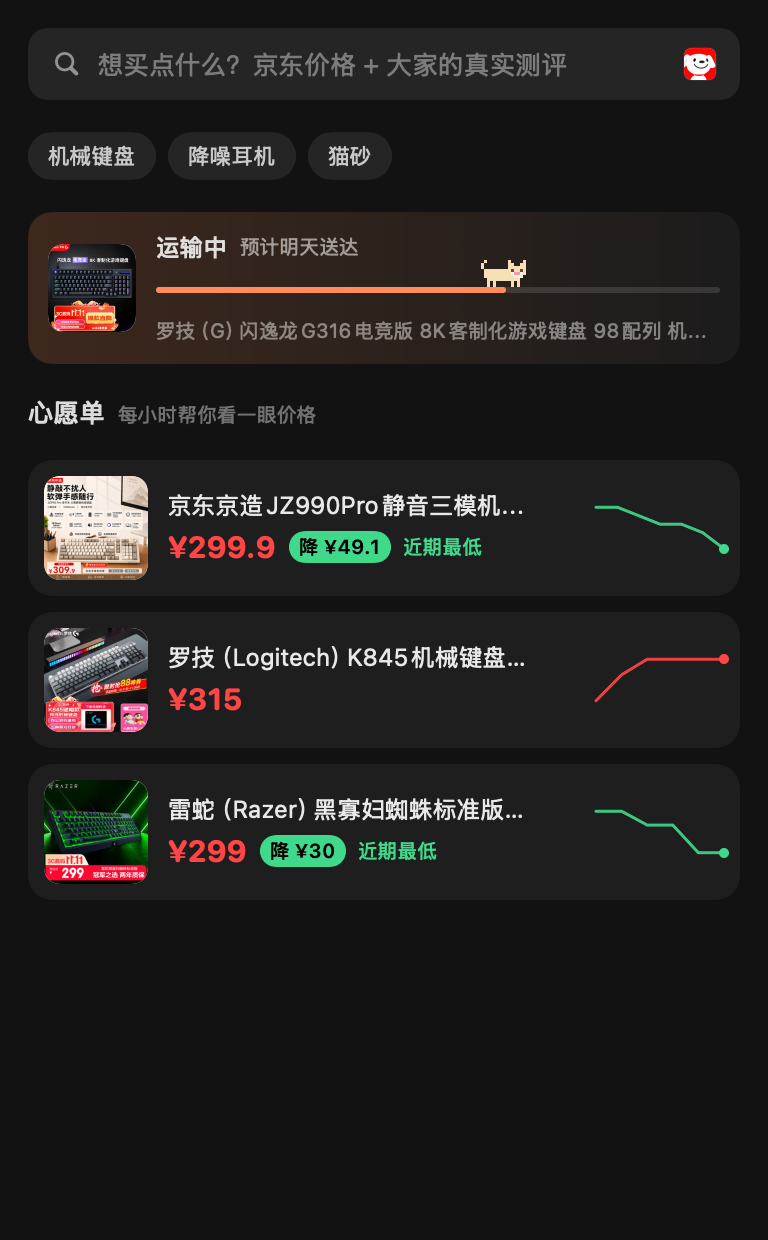
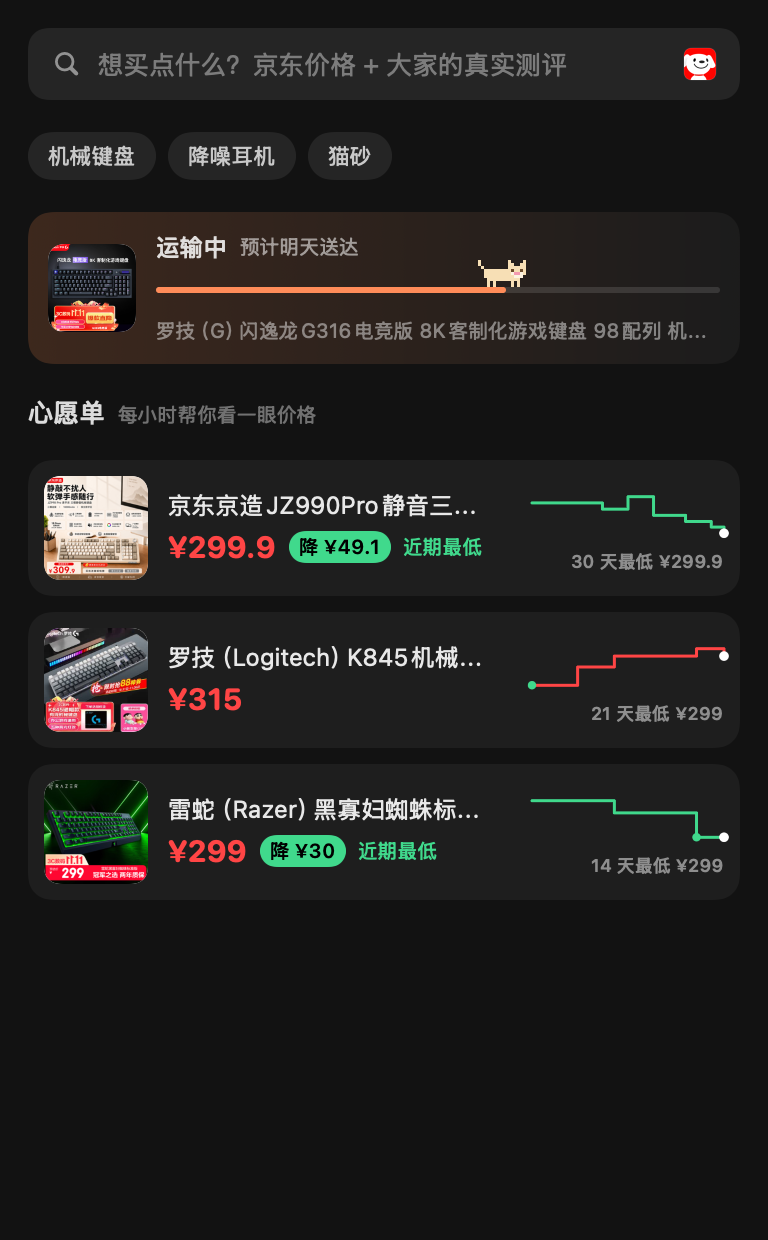
Shopping assistant: price chart with axes and key points, JD rest/verify fallbacks, ADR 0005
Generated with [Devin](https://devin.ai)

diff --git a/apps/macos/Catland/Commerce/CommerceViews.swift b/apps/macos/Catland/Commerce/CommerceViews.swift
@@ -1,6 +1,7 @@
 // 电商板块（购物小助手，先只接京东）：搜索 → 京东商品 + 大家怎么说（小红书 / B 站 / 抖音的测评）→ 商品页 → 去京东买；
 // 心愿单盯价、订单状态。界面组件在这里，数据接入见 docs/decisions（待写 ADR 0005）。
 import AppKit
+import Charts
 import SwiftUI
 
 /// 京东商品（来自 catbus jd item search / get）。
@@ -17,16 +18,27 @@ struct Product: Identifiable, Hashable {
     var selfOperated: Bool { shop.contains("自营") }
 }
 
+struct PricePoint: Hashable {
+    let date: Date
+    let price: Double
+}
+
 /// 心愿单里的一件：价格历史只存在本机。
 struct WishItem: Identifiable, Hashable {
     let product: Product
-    /// 最近的价格（旧 → 新）
-    let history: [Double]
+    /// 价格历史（旧 → 新）
+    let history: [PricePoint]
     var id: String { product.id }
-    var current: Double { history.last ?? product.price }
-    var lowest: Double { history.min() ?? current }
+    var current: Double { history.last?.price ?? product.price }
+    var lowest: Double { history.map(\.price).min() ?? current }
+    var highest: Double { history.map(\.price).max() ?? current }
     /// 和加入时比：负数是降价
-    var change: Double { current - (history.first ?? current) }
+    var change: Double { current - (history.first?.price ?? current) }
+    /// 记录了多少天
+    var days: Int {
+        guard let a = history.first?.date, let b = history.last?.date else { return 0 }
+        return max(1, Calendar.current.dateComponents([.day], from: a, to: b).day ?? 0)
+    }
 }
 
 /// 订单的履约状态（catbus jd order list）。
@@ -77,6 +89,7 @@ struct CommerceHome: View {
     let wishes: [WishItem]
     let orders: [OrderStatus]
     let recent: [String]
+    var rest: JDRest? = nil
 
     var body: some View {
         VStack(alignment: .leading, spacing: 16) {
@@ -88,6 +101,7 @@ struct CommerceHome: View {
             }
             ForEach(orders) { OrderCard(order: $0) }
             SectionTitle(title: "心愿单", detail: "每小时帮你看一眼价格")
+            if let rest { WishPausedBanner(rest: rest) }
             VStack(spacing: 8) { ForEach(wishes) { WishRow(item: $0) } }
         }
     }
@@ -130,37 +144,108 @@ struct WishRow: View {
                         Text("降 \(PriceFormat.yuan(-item.change))").font(.system(size: 10, weight: .semibold)).foregroundStyle(.black)
                             .padding(.horizontal, 5).frame(height: 16).background(Capsule().fill(dropGreen))
                     }
-                    if item.current <= item.lowest && item.history.count > 3 {
+                    if item.current <= item.lowest && item.history.count > 3 && item.highest > item.lowest {
                         Text("近期最低").font(.system(size: 10, weight: .medium)).foregroundStyle(dropGreen)
                     }
                 }
             }
             Spacer(minLength: 4)
-            Sparkline(values: item.history).frame(width: 64, height: 26)
+            PriceChart(item: item, compact: true).frame(width: 96, height: 44)
         }
         .padding(8)
         .background(RoundedRectangle(cornerRadius: 12, style: .continuous).fill(.white.opacity(0.05)))
     }
 }
 
-/// 价格小曲线：最后一个点标出来，降价绿、涨价红。
-struct Sparkline: View {
-    let values: [Double]
+/// 价格走势（Swift Charts）。
+/// 完整版：纵轴价格刻度、横轴日期，标出最高、最低和现在；缩略版（心愿单）：只标最低点和现在，下面一行写「N 天最低」。
+struct PriceChart: View {
+    let item: WishItem
+    var compact = false
+
+    private var points: [PricePoint] { item.history }
+    private var lowPoint: PricePoint? { points.min { $0.price < $1.price } }
+    private var highPoint: PricePoint? { points.max { $0.price < $1.price } }
+    private var trend: Color { item.change < 0 ? dropGreen : (item.change > 0 ? priceRed : .white.opacity(0.7)) }
+    /// 纵轴留白：曲线不贴边，标注放得下
+    private var domain: ClosedRange<Double> {
+        let lo = item.lowest, hi = item.highest, pad = max((hi - lo) * 0.35, hi * 0.02, 1)
+        return (lo - pad)...(hi + pad)
+    }
+
     var body: some View {
-        GeometryReader { g in
-            let lo = values.min() ?? 0, hi = values.max() ?? 1, span = max(hi - lo, 1)
-            let pts = values.enumerated().map { i, v in
-                CGPoint(x: g.size.width * CGFloat(i) / CGFloat(max(values.count - 1, 1)), y: g.size.height * (1 - CGFloat((v - lo) / span)) * 0.8 + g.size.height * 0.1)
+        if compact { compactBody } else { fullBody }
+    }
+
+    private var fullBody: some View {
+        Chart {
+            ForEach(points, id: \.date) { p in
+                AreaMark(x: .value("日期", p.date), yStart: .value("下限", domain.lowerBound), yEnd: .value("价格", p.price))
+                    .interpolationMethod(.stepEnd)
+                    .foregroundStyle(LinearGradient(colors: [trend.opacity(0.25), trend.opacity(0)], startPoint: .top, endPoint: .bottom))
+                LineMark(x: .value("日期", p.date), y: .value("价格", p.price))
+                    .interpolationMethod(.stepEnd)
+                    .foregroundStyle(trend)
+                    .lineStyle(StrokeStyle(lineWidth: 2, lineCap: .round, lineJoin: .round))
             }
-            let color = (values.last ?? 0) < (values.first ?? 0) ? dropGreen : priceRed
-            Path { p in
-                guard let f = pts.first else { return }
-                p.move(to: f)
-                for q in pts.dropFirst() { p.addLine(to: q) }
+            if let h = highPoint, item.highest > item.lowest {
+                PointMark(x: .value("日期", h.date), y: .value("价格", h.price)).foregroundStyle(priceRed).symbolSize(30)
+                    .annotation(position: .top, spacing: 3) { label("最高 \(PriceFormat.yuan(h.price))", priceRed) }
             }
-            .stroke(color.opacity(0.9), style: StrokeStyle(lineWidth: 1.5, lineCap: .round, lineJoin: .round))
-            if let last = pts.last { Circle().fill(color).frame(width: 5, height: 5).position(last) }
+            // 现在就是最低价：合成一个标注，不叠在一起
+            let nowIsLow = item.current <= item.lowest
+            if let l = lowPoint, item.highest > item.lowest, !nowIsLow {
+                PointMark(x: .value("日期", l.date), y: .value("价格", l.price)).foregroundStyle(dropGreen).symbolSize(30)
+                    .annotation(position: .bottom, spacing: 3) { label("最低 \(PriceFormat.yuan(l.price))", dropGreen) }
+            }
+            if let c = points.last {
+                PointMark(x: .value("日期", c.date), y: .value("价格", c.price)).foregroundStyle(.white).symbolSize(40)
+                    .annotation(position: nowIsLow ? .bottomLeading : .topLeading, spacing: 3) {
+                        label(nowIsLow ? "现在 \(PriceFormat.yuan(c.price)) · 最低" : "现在 \(PriceFormat.yuan(c.price))", nowIsLow ? dropGreen : .white.opacity(0.85))
+                    }
+            }
         }
+        .chartYScale(domain: domain)
+        .chartXAxis {
+            AxisMarks(values: .automatic(desiredCount: 4)) { _ in
+                AxisGridLine().foregroundStyle(.white.opacity(0.06))
+                AxisValueLabel(format: .dateTime.month(.defaultDigits).day(), centered: false).foregroundStyle(.white.opacity(0.45)).font(.system(size: 9))
+            }
+        }
+        .chartYAxis {
+            AxisMarks(position: .trailing, values: .automatic(desiredCount: 3)) { v in
+                AxisGridLine().foregroundStyle(.white.opacity(0.08))
+                AxisValueLabel { if let d = v.as(Double.self) { Text(PriceFormat.yuan(d.rounded())) } }.foregroundStyle(.white.opacity(0.45)).font(.system(size: 9))
+            }
+        }
+    }
+
+    private var compactBody: some View {
+        VStack(alignment: .trailing, spacing: 2) {
+            Chart {
+                ForEach(points, id: \.date) { p in
+                    LineMark(x: .value("日期", p.date), y: .value("价格", p.price))
+                        .interpolationMethod(.stepEnd)
+                        .foregroundStyle(trend)
+                        .lineStyle(StrokeStyle(lineWidth: 1.5, lineCap: .round, lineJoin: .round))
+                }
+                if let l = lowPoint, item.highest > item.lowest, l != points.last {
+                    PointMark(x: .value("日期", l.date), y: .value("价格", l.price)).foregroundStyle(dropGreen).symbolSize(14)
+                }
+                if let c = points.last { PointMark(x: .value("日期", c.date), y: .value("价格", c.price)).foregroundStyle(.white).symbolSize(18) }
+            }
+            .chartYScale(domain: domain)
+            .chartXAxis(.hidden)
+            .chartYAxis(.hidden)
+            Text("\(item.days) 天最低 \(PriceFormat.yuan(item.lowest))")
+                .font(.system(size: 9, weight: .medium)).foregroundStyle(.white.opacity(0.5)).lineLimit(1)
+        }
+    }
+
+    private func label(_ text: String, _ color: Color) -> some View {
+        Text(text).font(.system(size: 9, weight: .semibold)).foregroundStyle(color)
+            .padding(.horizontal, 4).padding(.vertical, 1)
+            .background(Capsule().fill(Color(white: 0.1).opacity(0.85)))
     }
 }
 
@@ -214,6 +299,9 @@ struct CommerceResults: View {
     let wished: Set<String>
     /// 离屏渲染（设计稿）时不能用 ScrollView：ImageRenderer 画不出它的内容
     var scrollable = true
+    /// 京东歇着时：顶上放说明卡，下面是上次的结果
+    var rest: JDRest? = nil
+    var cachedAt: Date? = nil
 
     var body: some View {
         VStack(alignment: .leading, spacing: 14) {
@@ -225,7 +313,10 @@ struct CommerceResults: View {
                 Spacer()
                 ForEach(["综合", "销量", "价格", "评价"], id: \.self) { Chip(text: $0, active: $0 == "综合") }
             }
+            .opacity(rest == nil ? 1 : 0.4)
+            if let rest { JDRestCard(rest: rest, query: query, cachedAt: cachedAt) }
             VStack(spacing: 8) { ForEach(products) { ProductRow(product: $0, wished: wished.contains($0.id)) } }
+                .opacity(rest == nil ? 1 : 0.75)
         }
     }
 }
@@ -332,9 +423,9 @@ struct ProductDetailView: View {
                     HStack {
                         Text("价格走势").font(.system(size: 11, weight: .medium)).foregroundStyle(.white.opacity(0.7))
                         Spacer()
-                        Text("最低 \(PriceFormat.yuan(w.lowest))").font(.system(size: 10)).foregroundStyle(.white.opacity(0.5))
+                        Text("近 \(w.days) 天 · 最高 \(PriceFormat.yuan(w.highest)) · 最低 \(PriceFormat.yuan(w.lowest))").font(.system(size: 10)).foregroundStyle(.white.opacity(0.5))
                     }
-                    Sparkline(values: w.history).frame(height: 40)
+                    PriceChart(item: w).frame(height: 150)
                 }
                 .padding(10).background(RoundedRectangle(cornerRadius: 10, style: .continuous).fill(.white.opacity(0.05)))
             }
@@ -377,5 +468,80 @@ struct PriceDropBubble: View {
         .padding(.horizontal, 14).padding(.vertical, 10)
         .background(Capsule().fill(.black))
         .overlay(Capsule().stroke(.white.opacity(0.1)))
+    }
+}
+
+// MARK: - 京东被风控时的兜底
+
+/// 京东暂时不能用（限流 / 风控）的状态。
+struct JDRest: Hashable {
+    enum Kind: Hashable {
+        /// 限流：到点自动恢复
+        case resting
+        /// 京东要求人机验证：需要用户在浏览器里正常逛一下京东
+        case verify
+    }
+    let kind: Kind
+    let resumeAt: Date?
+}
+
+/// 搜索结果里京东那一栏的替身：说明在歇、几点回来，给一个「在京东里搜」的出口；下面接着放上次的结果（标注更新时间）。
+struct JDRestCard: View {
+    let rest: JDRest
+    let query: String
+    var cachedAt: Date? = nil
+
+    var body: some View {
+        HStack(alignment: .top, spacing: 10) {
+            CatSprite(skin: "kitten", action: "nap", scale: 2.2)
+            VStack(alignment: .leading, spacing: 4) {
+                Text(rest.kind == .resting ? "京东让箱箱歇会儿" : "京东想确认你是真人")
+                    .font(.system(size: 12, weight: .semibold))
+                Text(detail).font(.system(size: 10)).foregroundStyle(.white.opacity(0.6)).fixedSize(horizontal: false, vertical: true)
+                HStack(spacing: 6) {
+                    Label("在京东里搜「\(query)」", systemImage: "arrow.up.right")
+                        .font(.system(size: 10, weight: .semibold)).foregroundStyle(.white)
+                        .padding(.horizontal, 9).frame(height: 22).background(Capsule().fill(priceRed.opacity(0.85)))
+                    if let cachedAt {
+                        Text("下面是 \(Self.ago(cachedAt))的结果").font(.system(size: 10)).foregroundStyle(.white.opacity(0.45))
+                    }
+                }
+                .padding(.top, 2)
+            }
+            Spacer(minLength: 0)
+        }
+        .padding(10)
+        .background(RoundedRectangle(cornerRadius: 12, style: .continuous).fill(.white.opacity(0.06)))
+        .overlay(RoundedRectangle(cornerRadius: 12, style: .continuous).stroke(.white.opacity(0.08)))
+    }
+
+    private var detail: String {
+        switch rest.kind {
+        case .resting:
+            let t = rest.resumeAt.map { $0.formatted(date: .omitted, time: .shortened) } ?? "稍后"
+            return "刚才问得有点多，\(t)左右自动回来。测评照常看，价格可以先去京东瞄一眼。"
+        case .verify:
+            return "在浏览器里打开京东随便逛两下就好，箱箱会过一阵再来试；不用重新登录。"
+        }
+    }
+
+    static func ago(_ d: Date) -> String {
+        let m = Int(Date().timeIntervalSince(d) / 60)
+        return m < 60 ? "\(max(m, 1)) 分钟前" : (m < 24 * 60 ? "\(m / 60) 小时前" : "\(m / 1440) 天前")
+    }
+}
+
+/// 心愿单顶上的一条：盯价暂停中，几点继续；价格显示的是最后一次看到的。
+struct WishPausedBanner: View {
+    let rest: JDRest
+    var body: some View {
+        HStack(spacing: 8) {
+            Image(systemName: "moon.zzz.fill").font(.system(size: 11)).foregroundStyle(.white.opacity(0.7))
+            Text("盯价暂停中，\(rest.resumeAt.map { $0.formatted(date: .omitted, time: .shortened) } ?? "稍后")后接着盯 · 下面是最后一次看到的价格")
+                .font(.system(size: 10)).foregroundStyle(.white.opacity(0.65)).lineLimit(2)
+            Spacer(minLength: 0)
+        }
+        .padding(.horizontal, 10).padding(.vertical, 7)
+        .background(RoundedRectangle(cornerRadius: 9, style: .continuous).fill(.white.opacity(0.06)))
     }
 }

diff --git a/apps/macos/Catland/App/CatlandApp.swift b/apps/macos/Catland/App/CatlandApp.swift
@@ -153,10 +153,14 @@ final class AppDelegate: NSObject, NSApplicationDelegate {
                         for p in products { if let s = p.cover { _ = await ImageLoader.shared.load(s).value } }
                         for r in reviews { if let s = r.cover { _ = await ImageLoader.shared.load(s).value } }
                         search.clearResults()
+                        // 示例价格历史：按天记录（盯价接口实测后换成真实数据）
+                        func hist(_ prices: [(Int, Double)]) -> [PricePoint] {
+                            prices.map { PricePoint(date: Calendar.current.date(byAdding: .day, value: -$0.0, to: Date())!, price: $0.1) }
+                        }
                         let wishes = [
-                            WishItem(product: products[3], history: [349, 349, 339, 329, 329, 319, 299.9]),
-                            WishItem(product: products[5], history: [299, 309, 315, 315, 315, 315]),
-                            WishItem(product: products[1], history: [329, 329, 319, 319, 299, 299]),
+                            WishItem(product: products[3], history: hist([(30, 349), (24, 349), (19, 339), (15, 359), (11, 329), (6, 319), (2, 309.9), (0, 299.9)])),
+                            WishItem(product: products[5], history: hist([(21, 299), (16, 309), (12, 315), (7, 315), (3, 319), (0, 315)])),
+                            WishItem(product: products[1], history: hist([(14, 329), (11, 329), (8, 319), (5, 319), (2, 299), (0, 299)])),
                         ]
                         let order = OrderStatus(id: "1", title: products[0].title, cover: products[0].cover, status: "运输中", detail: "预计明天送达", progress: 0.62)
                         @MainActor func save(_ v: some View, _ name: String, height: CGFloat? = nil) {
@@ -168,6 +172,11 @@ final class AppDelegate: NSObject, NSApplicationDelegate {
                         save(CommerceResults(query: "机械键盘", reviews: Array(reviews), products: Array(products.prefix(4)), wished: [products[1].id], scrollable: false), "results")
                         save(ProductDetailView(product: products[3], reviews: Array(reviews), wish: wishes[0], scrollable: false), "detail")
                         save(PriceDropBubble(item: wishes[0]), "bubble")
+                        // 兜底：京东歇着时的搜索结果、心愿单
+                        let rest = JDRest(kind: .resting, resumeAt: Date().addingTimeInterval(2 * 3600))
+                        save(CommerceResults(query: "机械键盘", reviews: Array(reviews), products: Array(products.prefix(3)), wished: [], scrollable: false,
+                                             rest: rest, cachedAt: Date().addingTimeInterval(-3 * 3600)), "results-resting")
+                        save(CommerceHome(wishes: wishes, orders: [], recent: ["机械键盘", "降噪耳机", "猫砂"], rest: rest), "home-resting", height: 560)
                         AppLog.info("render commerce", ["products": products.count, "reviews": reviews.count])
                     }
                 case "render:update":

diff --git a/docs/decisions/0005-shopping-assistant.md b/docs/decisions/0005-shopping-assistant.md
@@ -1,0 +1,33 @@
+# 0005 电商板块：购物小助手（先只接京东）
+
+- 状态：提议中（等京东商品详情接口复测后定稿）
+- 日期：2026-11-03
+
+## 背景
+
+catbus 0.2.1 的电商能力：京东有搜索（价格、店铺、评价量级）、详情、第一页评价、订单、优惠券；淘宝拿不到任何商品数据；闲鱼不能搜索。京东风控很严：2026-11-03 实测，登录后第一次搜索成功，20 秒后一次商品详情就被 403 限流（登录态仍有效）。catbus 的京东搜索带指纹和人机验证自动处理，详情接口没有；详情遇到 403 空 body 还会重签重试，等于多发几次。
+
+## 决策
+
+1. **定位**：不做商城，做「买东西前后的小助手」：买前搜索（京东商品 + 小红书 / B 站 / 抖音的测评同屏对比）→ 去京东下单（catland 不碰支付、不做任何写操作）→ 心愿单盯价 → 订单履约状态。只接京东，淘宝、闲鱼在「连接」页标暂未开放。
+2. **少用详情接口**：商品页的标题、价格、店铺、封面、评价量级都用搜索结果里的快照，不为打开商品页去请求详情；需要规格、参数时让用户「去京东看」。
+3. **京东请求统一排队**（sidecar 里一个京东专用的节流器，搜索、盯价、订单共用）：
+   - 同一时间只有一个京东请求；两次之间至少 60 秒，再加随机 0～30 秒；
+   - 用户主动的操作（搜索、翻页）优先，盯价在后台让路；
+   - 同一个关键词的搜索结果缓存 30 分钟，翻页只在滑到底时取；
+   - 刚登录的 10 分钟里只允许用户主动搜索，不跑盯价。
+4. **盯价**：心愿单最多 30 件，每件每小时一次，时间在一小时里均匀错开（≈ 每 2 分钟一件）；只在 Mac 醒着、联网时进行，合盖错过的不补查。价格历史存本机。优先用搜索拿价格（以 SKU 搜，结果里找同一个 SKU）；复测后如果详情接口能稳定通过，再考虑用详情。
+5. **风控熔断**：任何一次 `RISK_CONTROL` → 京东所有请求暂停，不重试；暂停时长逐级加长：30 分钟 → 2 小时 → 6 小时 → 24 小时（连续 24 小时没再被拦就回到第一级）。恢复后盯价一件一件慢慢接上，不集中补查。被拦过的 24 小时内盯价降到每 4 小时一次。只有 `AUTH_EXPIRED` 才算登录失效。
+6. **兜底（京东歇着时用户看到什么）**：
+   - 搜索：「大家怎么说」照常（内容平台不受影响）；京东那一栏换成说明卡「京东让箱箱歇会儿，HH:mm 左右自动回来」+「在京东里搜『关键词』」（用浏览器打开京东搜索页，不经 catbus）+ 上次的结果（标注「N 小时前」）。
+   - 人机验证类（`detail.kind = captcha`）：说明卡改成「京东想确认你是真人：在浏览器里打开京东随便逛两下」，不让重新登录。
+   - 商品页：用快照，价格旁标「更新于 N 小时前」，主按钮仍是「去京东买」。
+   - 心愿单：顶部一条「盯价暂停中，HH:mm 后接着盯 · 下面是最后一次看到的价格」；不弹降价提醒。
+   - 订单：显示最后一次的状态和时间。
+   - 刘海：只在第一次进入暂停时箱箱说一句，之后不重复打扰。
+
+## 影响
+
+- 新增的后台请求只有盯价（每件每小时一次，有上限和熔断），写进 ADR 0001 的说明：仍只发往用户自己登录的京东。
+- 搜索、订单的真实字段以只读实测为准；商品详情是否可用等复测结果。
+- 设计稿：`docs/design/commerce/`（results、detail、home、bubble，以及兜底的 results-resting、home-resting）。
